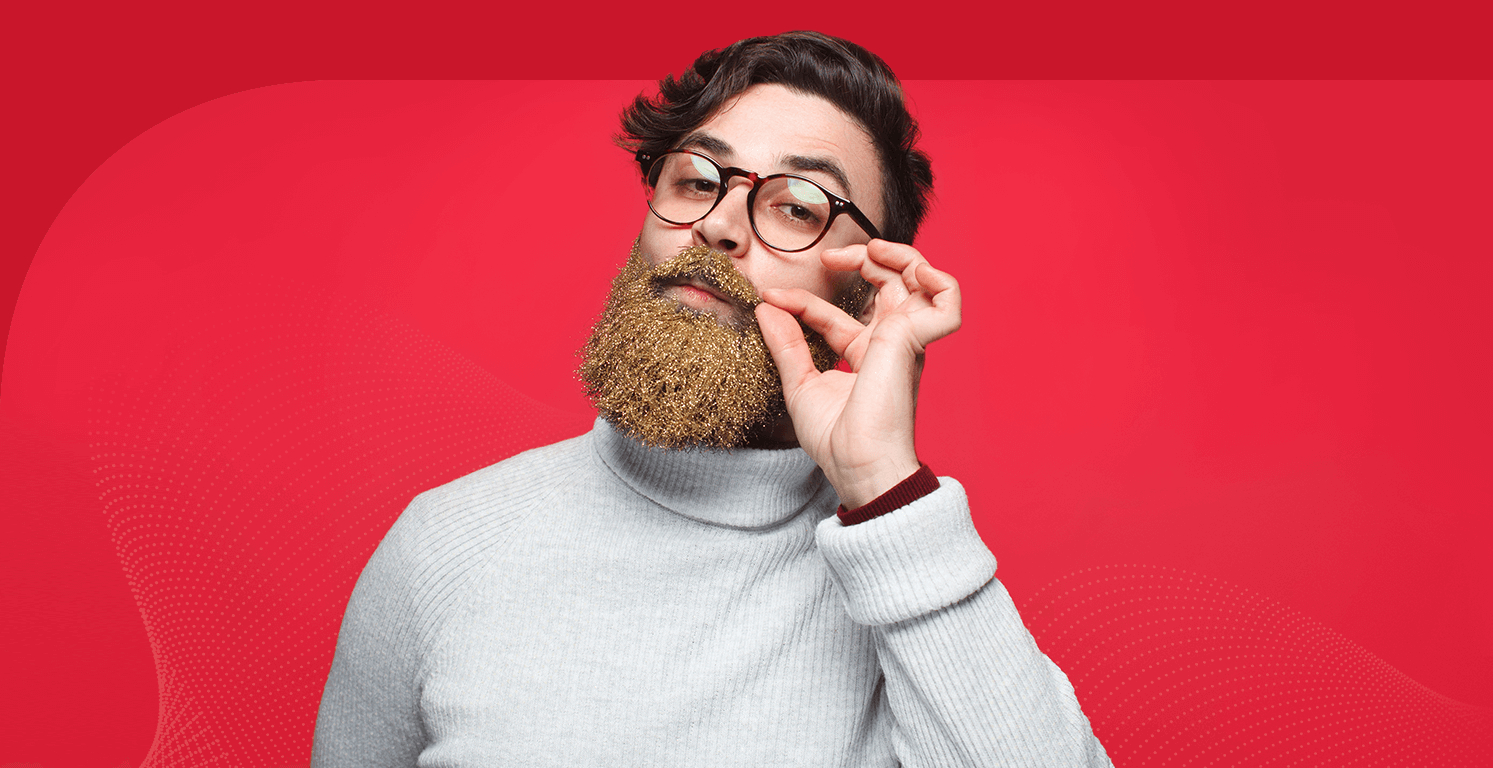
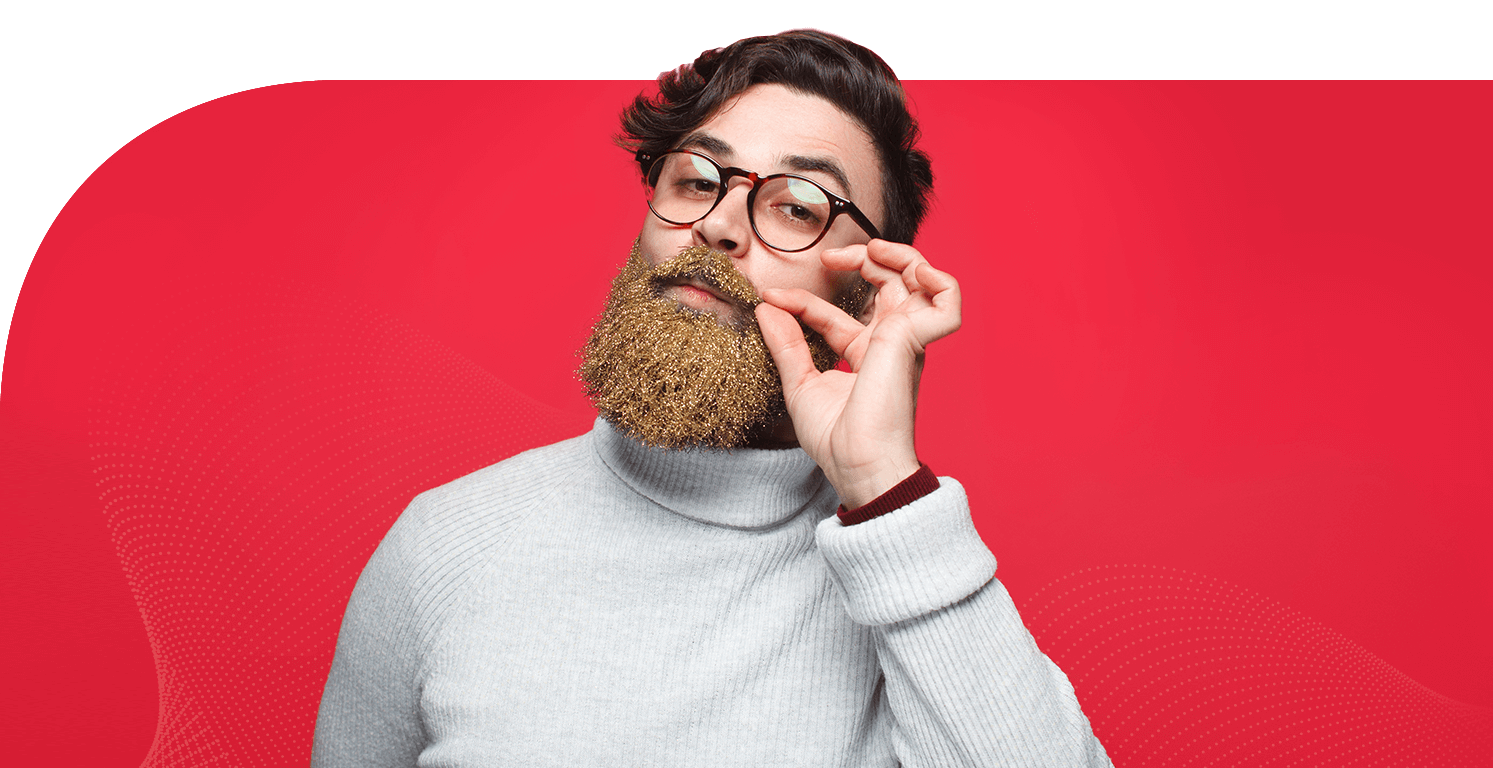
首页、header修改分辨率bug 增加indestry的动画

Changed region(s): [[0.0, 0.0, 1.0, 0.4688]]

diff --git a/src/industry/industry.css b/src/industry/industry.css
@@ -29,7 +29,11 @@
 .industry_wrap .one h4 {
     font-size: 20px;
     color: #fff;
+    opacity: 0;
   }
+.industry_wrap .one.ani h4 {
+    animation: fadeIn 1s forwards .3s;
+}
 
 .industry_wrap .one h4 span {
     display: inline-block;
@@ -52,13 +56,20 @@
     font-size: 72px;
     line-height: 86px;
     font-weight: lighter;
-    
+    opacity: 0;
+}
+.industry_wrap .one.ani h3 {
+    animation: fadeIn 1s forwards .8s;
 }
 
 .industry_wrap .one p {
     font-size: 48px; 
     line-height: 60px;
     font-weight: lighter;
+    opacity: 0;
+}
+.industry_wrap .one.ani p {
+    animation: fadeIn 1s forwards .8s;
 }
 
 .industry_wrap .one .detailInfo {
@@ -67,7 +78,12 @@
     padding-top: 20px;
     display: block;
     line-height: 40px;
+    opacity: 0;
 }
+.industry_wrap .one.ani .detailInfo {
+    animation: fadeIn 1s forwards 1.1s;
+}
+
 
 .industry_wrap .one .industry_nav {
     position: absolute;
@@ -108,12 +124,33 @@
     font-size: 60px;
     
 }
+.industry_wrap .two .industryContent h1,
+.industry_wrap .three .industryContent h1,
+.industry_wrap .four .industryContent h1 {
+    opacity: 0;
+}
+.industry_wrap .two.ani .industryContent h1,
+.industry_wrap .three.ani .industryContent h1,
+.industry_wrap .four.ani .industryContent h1 {
+    animation: fadeIn 1s forwards;
+}
 
 .industry_wrap .industryContent p {
     
     width: 667px;
     position: relative;
 } 
+
+.industry_wrap .two .industryContent p,
+.industry_wrap .three .industryContent p,
+.industry_wrap .four .industryContent p {
+    opacity: 0;
+}
+.industry_wrap .two.ani .industryContent p,
+.industry_wrap .three.ani .industryContent p,
+.industry_wrap .four.ani .industryContent p {
+    animation: fadeIn 1s forwards .3s;
+}
 
 .industry_wrap .industryTopList_1 h1 {
     float: left;
@@ -148,6 +185,16 @@
     display: block;
     margin:0 auto;
     clear: both;
+}
+.industry_wrap .two .introImg,
+.industry_wrap .three .introImg,
+.industry_wrap .four .introImg {
+    opacity: 0;
+}
+.industry_wrap .two.ani .introImg,
+.industry_wrap .three.ani .introImg,
+.industry_wrap .four.ani .introImg {
+    animation: fadeIn 1s forwards .8s;
 }
 
 .industry_wrap .industryContent h1 b {
@@ -224,6 +271,7 @@
     top:150px;
     width: 70px;
     height: 70px;
+    animation: upDown infinite 5s;
 }
 
 .tech_ball_02 {
@@ -234,4 +282,5 @@
     top:618px;
     width: 100px;
     height: 100px;
+    animation: upDown infinite 3.5s 1s;
 }

diff --git a/src/index/index.js b/src/index/index.js
@@ -7,7 +7,7 @@ $(function(){
     direction: 'horizontal', // 垂直切换选项
     loop: true, // 循环模式选项
     effect : 'fade',
-    speed: 600,
+    speed: 300,
     initialSlide: 0,
     on: {
       slideChangeTransitionStart: function(){
@@ -101,17 +101,21 @@ $(function(){
           top: 115 * propoH
         })
 
+        $('.index-banner .info').css({
+          width: 1000 * propoH
+        })
+
         $('.secondNav ul').hide()
         $('.secondNav ul').eq(this.realIndex).fadeIn()
 
         $('.index-banner h1').css({
-          left: 124
+          left: 124 * propoH
         })
         $('.index-banner h2').css({
-          left: 124
+          left: 124 * propoH
         })
         $('.index-banner .info').css({
-          left: 138
+          left: 138 * propoH
         })
         
       }
@@ -143,33 +147,20 @@ $(function(){
         opacity:1,
         borderTopLeftRadius: 0
       })
+
+      $('.index-banner .info').css({
+        width: 1000 * propoH
+      })
     }
     $('.index-banner h1').css({
-      left: 124
+      left: 124 * propoH
     })
     $('.index-banner h2').css({
-      left: 124
+      left: 124 * propoH
     })
     $('.index-banner .info').css({
-      left: 138
+      left: 138 * propoH
     })
-    if(aim == 0) {
-      $('..index-banner .swiper-wrap .swiper-container .swiper-slide').css({
-        backgroundColor: '#dcae45'
-      })
-    }else if(aim == 1) {
-      $('..index-banner .swiper-wrap .swiper-container .swiper-slide').css({
-        backgroundColor: '#78acb0'
-      })
-    }else if(aim == 2) {
-      $('..index-banner .swiper-wrap .swiper-container .swiper-slide').css({
-        backgroundColor: '#c9162a'
-      })
-    }else if(aim == 3) {
-      $('..index-banner .swiper-wrap .swiper-container .swiper-slide').css({
-        backgroundColor: '#70544f'
-      })
-    }
   })
 
 
@@ -333,7 +324,7 @@ $(function(){
 
     // 每个slider的简介 
     $('.index-banner .info').css({
-      width: 450 * propoH,
+      width: 600 * propoH,
       top: 620 * propoH,
       left: 460 * propoH
     })
@@ -530,7 +521,7 @@ $(function(){
     })
 
     $('.secondNav').css({
-      left: 138,
+      left: 138 * propoH,
       bottom: 200 * propoH
     })
 

diff --git a/src/industry/industry.js b/src/industry/industry.js
@@ -1,9 +1,45 @@
 $(function(){
+    let isLong = $('#fullpage').hasClass('long')
     $('#fullpage').fullpage({
-          navigation: true,
+        navigation: true,
         navigationPosition: 'left',
-          autoScrolling:true,
-          scrollHorizontally: true
+        autoScrolling:true,
+        scrollHorizontally: true,
+        afterLoad: function(origin, destination, direction) {
+            let aim = destination.index
+            if (aim == 0) {
+                $('.one').addClass('ani')
+                $('.common-header').removeClass('other')
+            }else {
+                $('.one').removeClass('ani')
+                $('.common-header').addClass('other')
+            }
+
+            if(isLong) {
+                if(aim == 1) {
+                    $('.two').addClass('ani')
+                }else {
+                    $('.two').removeClass('ani')
+                }
+                if(aim == 2) {
+                    $('.three').addClass('ani')
+                }else {
+                    $('.three').removeClass('ani')
+                }
+                
+                if(aim == 3 || aim == 4) {
+                    $('.four').addClass('ani')
+                }else {
+                    $('.four').removeClass('ani')
+                }
+            }else {
+                if(aim == 1 || aim == 2) {
+                    $('.two').addClass('ani')
+                }else {
+                    $('.two').removeClass('ani')
+                }
+            }
+        }
     });
     initPage()
     $(window).resize(function() {

diff --git a/src/index/index.css b/src/index/index.css
@@ -6,10 +6,11 @@ body {
 }
 .index-banner {
   /* background-color: transparent !important; */
+  background-color: #dcae45;
   position: relative;
-  min-width: 1400px;
+  min-width: 1200px;
   overflow: auto;
-  transition: all .6s;
+  /* transition: all .6s; */
 }
 .index-banner .swiper-wrap {
   position: absolute;
@@ -19,8 +20,8 @@ body {
   z-index: 2;
 }
 .index-banner .swiper-wrap .swiper-container {
-  border-top-left-radius: 330px;
-  border-top-right-radius: 100px;
+  /* border-top-left-radius: 330px;
+  border-top-right-radius: 100px; */
   /* background-color: yellowgreen !important; */
   overflow: hidden;
 }
@@ -42,6 +43,7 @@ body {
 }
 .index-banner .swiper-wrap .swiper-container .swiper-slide {
   position: relative;
+  visibility: hidden;
 }
 .index-banner .swiper-wrap .swiper-container .swiper-slide.one .ball1 {
   position: absolute;
@@ -208,6 +210,10 @@ body {
   height: 60px !important;
 }
 
+.swiper-container-fade .swiper-slide-active, .swiper-container-fade .swiper-slide-active .swiper-slide-active {
+  visibility: visible !important;
+}
+
 .index-banner .shadowWrap {
   position: absolute;
   /* width: 1493px;
@@ -220,6 +226,7 @@ body {
   border-top-left-radius: 500px;
   overflow: hidden;
   transition: all .6s;
+  min-width: 1200px;
 
 
   /* width: 1920px;

diff --git a/common/css/common.css b/common/css/common.css
@@ -2,6 +2,10 @@ body {
   font-family: -apple-system,BlinkMacSystemFont,Helvetica Neue,PingFang SC,Microsoft YaHei,Source Han Sans SC,Noto Sans CJK SC,WenQuanYi Micro Hei,sans-serif;
   overflow-x: hidden;
 }
+textarea {
+  /* background-color: red; */
+  border: 101px solid #e32300;
+}
 
 ::selection{background:transparent; color:#ec5d41;}
 ::-moz-selection{background:transparent; color:#ec5d41;}
@@ -21,6 +25,7 @@ body {
   z-index: 9999;
   transition: all .5s;
   text-align: right;
+  min-width: 1200px;
   /* background: #ccc; */
   /* box-shadow: 0px 0px 15px #444; */
 }
@@ -274,7 +279,7 @@ body {
   display: block;
   width: 256px;
   height: 160px;
-  transition: all .5s;
+  transition: transform .5s;
 }
 .common-item:hover .cover img {
   transform: scale(1.2);

diff --git a/common/js/common.js b/common/js/common.js
@@ -40,6 +40,23 @@
           paddingLeft: 14 * propoH,
           paddingRight: 14 * propoH
         })
+
+        $('.common-header .logo1, .common-header .logo2').css({
+          marginLeft: 100 * propoH,
+        })
+
+        $('.common-header .content .contact').css({
+          marginRight: 68 * propoH
+        })
+
+        $('.common-header .content .lang').css({
+          marginLeft: 70 * propoH
+        })
+
+        $('.common-header .content .top-item-wrap .top-item').css({
+          marginLeft: 16 * propoH,
+          marginRight: 16 * propoH
+        })
       }
     })()
   })

diff --git a/industry_01.html b/industry_01.html
@@ -15,7 +15,7 @@
   <script src="/src/industry/industry.js"></script>
 </head>
 <body>
-  <div id="fullpage" class="industry_wrap">
+  <div id="fullpage" class="industry_wrap long">
     <div class="section one industry_wrap_bg01">
         <div class="product_text">
         <h4><span></span><b>Our Service</b></h4>

diff --git a/index.html b/index.html
@@ -286,6 +286,6 @@
   <div class="fakeFooter">
     <img src="/common/img/footer.jpg" alt="">
   </div>
-  <!-- <script src="/src/index/star.js"></script> -->
+  <script src="/src/index/star.js"></script>
 </body>
 </html>
